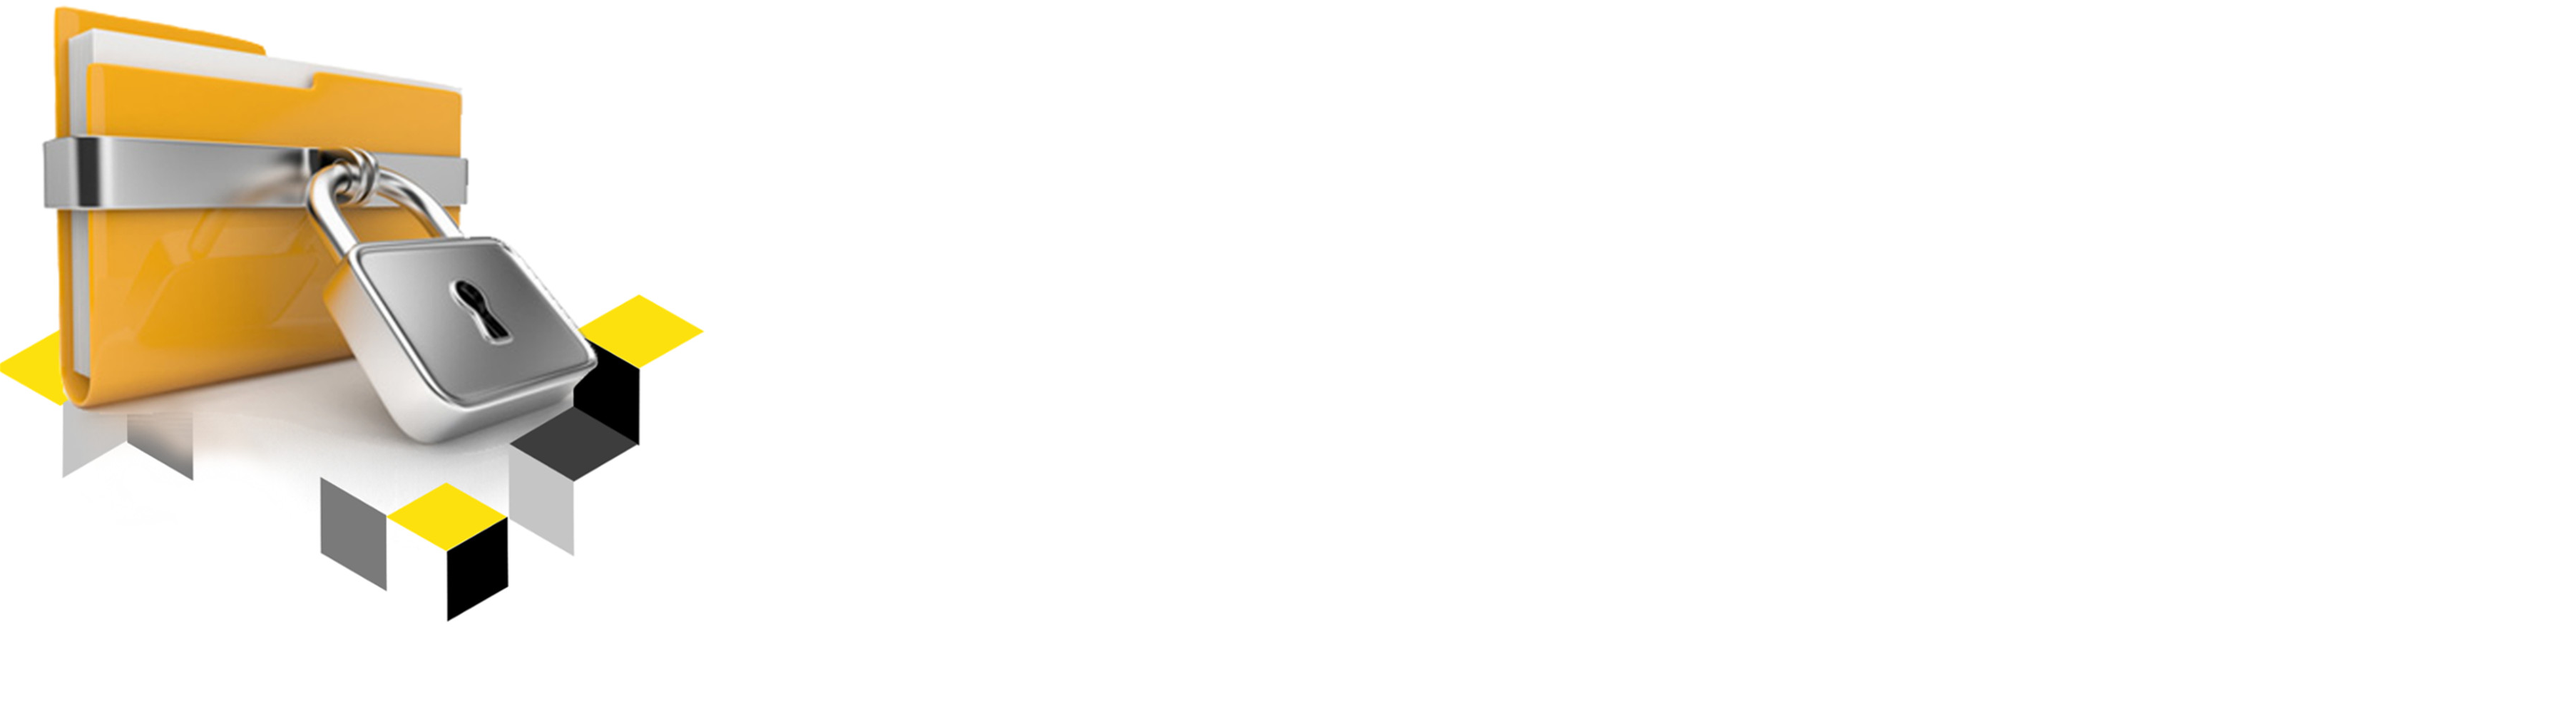
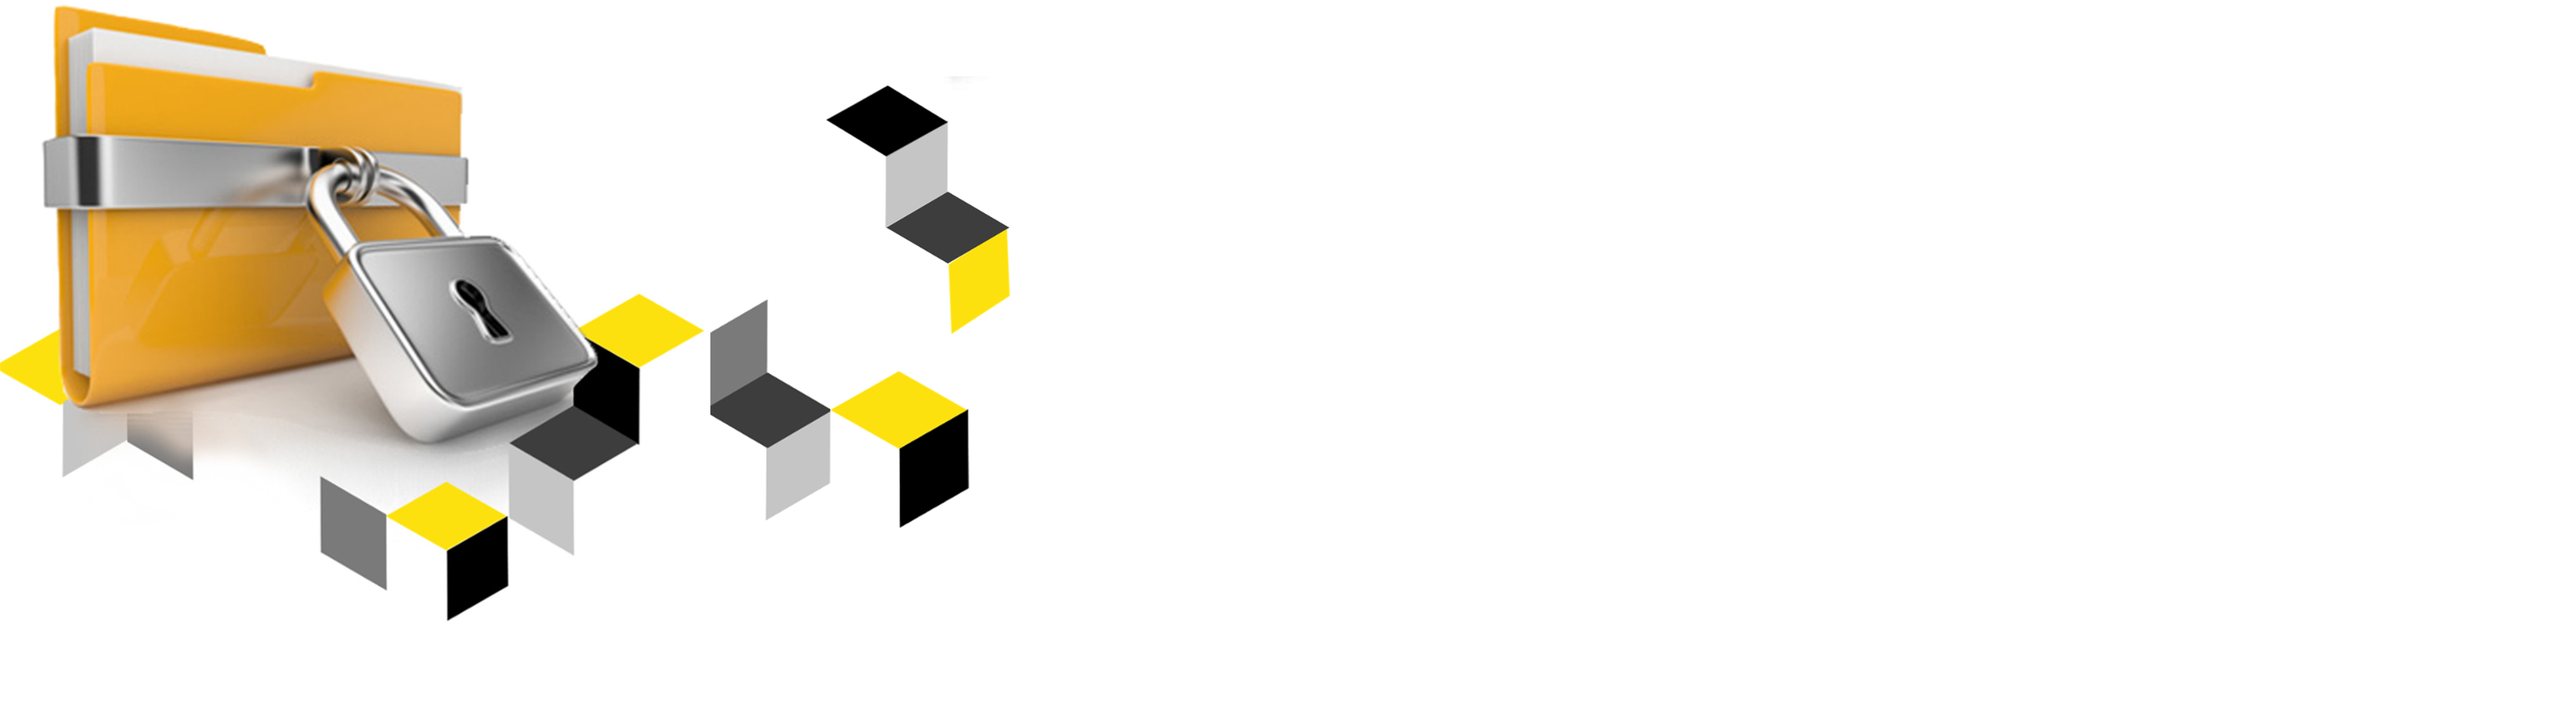
versao 28.5
novo produto
pd dda

diff --git a/WebContent/pdDDA.html b/WebContent/pdDDA.html
@@ -276,10 +276,10 @@
 	<div class="widnr second">
 		<div class="container">
 			<div class="span8 offset2 text-center">
-				<h2>PD BacenJud</h2>
-                <h4>Sistema de Controle das Ordens Judiciais via BACEN</h4>
-				<p>No portfólio de soluções de cadastros e obrigações da PD Case para o mercado bancário temos o BACENJUD. Nossa solução atende ao instrumento de comunicação eletrônica entre o Poder Judiciário e instituições financeiras bancárias, com intermediação, gestão técnica e serviço de suporte a cargo do Banco Central.</p>
-
+				<h2>PD DDA</h2>
+                <h4>Débito Direto Autorizado</h4>
+				<p>O DDA é um projeto idealizado pela FEBRABAN, ao qual todos os bancos participantes do SILOC/SIPROC são obrigados a aderir.</p>
+                <p>E, a solução PD DDA possibilita total aderência ao serviço prestado pelo CIP</p>
 
 			</div>
 			<!-- 
@@ -301,67 +301,57 @@
 		</div>
 	</div>
 
- <div class="widnr valueprop right"
-		style="background-image: url(./images/judge.png);">
-		<div class="container">
-			<div class="row-fluid flex-row">
-				<div class="span4 text-hero offset8">
-					<h2>O Bacen Jud 2.0</h2>
-					<p>O Bacen Jud 2.0 é um avanço na comunicação entre o Judiciário e as instituições financeiras, conferindo economia, segurança, controle e agilidade no processamento das ordens judiciais.</p>
-                    <p>Por meio dele, os magistrados protocolizam ordens judiciais de requisição de informações, bloqueio, desbloqueio e transferência de valores bloqueados, que serão transmitidas às instituições bancárias para cumprimento e resposta.</p>
-				</div>
-			</div>
-		</div>
-	</div>
-	
 	<div class="widnr valueprop left"
-		style="background-image: url(./images/gerenciamento.png);">
+		style="background-image: url(./images/dda2.jpg);">
 		<div class="container">
 			<div class="row-fluid flex-row">
 				<div class="span4 text-hero ">
-					<h2>Economia</h2>
-					<p>Economia, porque diminui o custo de processamento das ordens e solicitações judiciais tanto no âmbito do Judiciário, quanto no Banco Central e nas instituições financeiras, e mais a redução do prejuízo das partes com a manutenção por longo tempo dos recursos parados.</p>
-				</div>
-			</div>
-		</div>
-	</div>
-    <div class="widnr valueprop right"
-		style="background-image: url(./images/garobs.png);">
-		<div class="container">
-			<div class="row-fluid flex-row">
-				<div class="span4 text-hero offset8">
-					<h2>Segurança</h2>
-					<p>Segurança, por dois motivos: </p>
-                    <p>•	Usa recursos modernos de segurança e criptografia nas transmissões; </p>
-                    <p>•	Elimina riscos de falhas provenientes do processamento humano, conferindo campos de digitação e reduzindo os níveis de acesso à informação.
-                    </p>
-				</div>
-			</div>
-		</div>
-	</div>
-    <div class="widnr valueprop left"
-		style="background-image: url(./images/gar2.png);">
-		<div class="container">
-			<div class="row-fluid flex-row">
-				<div class="span4 text-hero ">
-					<h2>Controle </h2>
-					<p>Controle, porque permite ao Judiciário o acompanhamento das respostas às ordens e solicitações emitidas.</p>
+					<h2>Débito Direto Autorizado</h2>
+					<p>Permite que os bancos associados disponibilizem e consultem eletronicamente os bloquetos de cobrança, sendo estes originários de seus respectivos credores e destinados aos clientes que tenham se cadastrado como "Sacado Eletrônico" (devedor) em qualquer uma das instituições integrantes deste serviço.</p>
+                    <p>Seu objetivo central é reduzir o volume de documentos físicos que circulam pelo serviço de cobrança bancária, de forma a diminuir significativamente os custos com impressão e postagem, bem c omo o número de fraudes originadas pela adulteração das informações contidas nos bloquetos.</p>
 				</div>
 			</div>
 		</div>
 	</div>
 	<div class="widnr valueprop right"
-		style="background-image: url(./images/motivacao.jpg); padding-bottom:0px;">
+		style="background-image: url(./images/dda1.jpg);">
 		<div class="container">
 			<div class="row-fluid flex-row">
 				<div class="span4 text-hero offset8">
-					<h2>Agilidade</h2>
-					<p>Agilidade, porque as ordens são transmitidas eletronicamente e têm suas respostas visíveis para o juízo emissor na manhã do segundo dia útil após seu recebimento pelas instituições.</p>
+					<h2>Integração Saldo Eletrônico</h2>
+					<p>A solução PD DDA, por meio de funcionalidades on-line e de rotinas de integração com os sistemas das instituições, possibilita total aderência ao serviço prestado pela CIP, disponibilizando funcionalidades para gerenciamento, movimentação e atualização dos títulos de cobrança bancária e sacados eletrônicos.</p>
 				</div>
 			</div>
 		</div>
 	</div>
-
+	<div class="widnr valueprop left"
+		style="background-image: url(./images/dda3.jpg);">
+		<div class="container">
+			<div class="row-fluid flex-row">
+				<div class="span4 text-hero ">
+					<h2>Integração Saldo Eletrônico</h2>
+                    <p>O Sistema de Cobrança </p>
+					<p>A solução proporciona maior segurança, agilidade e praticidade tanto para as instituições financeiras quanto aos clientes usuários do serviço de cobrança bancária, sejam eles cedentes ou sacados.</p>
+				</div>
+			</div>
+		</div>
+	</div>
+    <div class="widnr valueprop right"
+		style="background-image: url(./images/dd4.jpg);">
+		<div class="container">
+			<div class="row-fluid flex-row">
+				<div class="span4 text-hero offset8">
+					<h2>Benefícios</h2>
+					<p>•	Maior Segurança no processo de pagamentos de bloquetos.<br />
+                    •	Alternativa de oferta de crédito para pagamento de bloquetos<br />
+                    •	Redução de filas de agências<br />
+                    •	Direcionamento de pagamentos para canais de auto atendimento<br />
+                    •	Maior agilidade no processo de negociação de pagamento</p>
+				</div>
+			</div>
+		</div>
+	</div>
+    
 
 </article>
 

diff --git a/WebContent/produtos.html b/WebContent/produtos.html
@@ -165,6 +165,7 @@
 									<li><a href="pdCTA.html">PD CTA - Centralizador de Transferencia de Arquivos</a></li>
 									<li><a href="pdPositivo.html">PD Positivo - Cadastro Positivo</a></li>
                                     <li><a href="pdBacenJud.html">PD BacenJud - Controle das Ordens Judiciais via BACEN</a></li>
+                                    <li><a href="pdDDA.html">PD DDA - Débito Direto Autorizado</a></li>
 								</ul>
 							</li>
 						</ul>
@@ -283,8 +284,9 @@
                         <a href="./pdPositivo.html"><button class="prodserv button2" onclick="location.href = './pdPositivo.html';">PD Positivo<br />Cadastro Positivo</button></a>
                         <a href="./pdBank.html"><button class="prodserv button2" onclick="location.href = './pdBank.html';">PD Bank<br />"CORE BUSINESS"</button></a>
                         <a href="./pdGAR.html"><button class="prodserv button2" onclick="location.href = './pdGAR.html';">PD GAR<br />Gestão de Ativos Reutilizáveis</button></a>
-                        <a href="./pdCTA.html"><button class="prodserv button2" onclick="location.href = './pdCTA.html';" >PD CTA<br />Centralizador de Transferência de Arquivos</button></a>
+                        <a href="./pdDDA.html"><button class="prodserv button2" onclick="location.href = './pdDDA.html';">PD DDA<br />Sistema de Débito Direto Autorizado</button></a>
                         <a href="./pdSRC.html"><button class="prodserv button2" onclick="location.href = './pdSRC.html';">PD SRC<br />Sistema de Recuperação de Crédito</button></a>
+                        <a href="./pdCTA.html"><button class="prodserv button2" onclick="location.href = './pdCTA.html';" >PD CTA<br />Centralizador de Transferência de Arquivos</button></a>
                         <a href="./pdBacenJud.html"><button class="prodserv button2" onclick="location.href = './pdBacenJud.html';">PD BacenJud<br />Sistema de Controle de Ordens Judiciais via BACEN</button></a>
                         <br /><br /><br /><br />
                     </div>

diff --git a/WebContent/portalCredito.html b/WebContent/portalCredito.html
@@ -129,6 +129,7 @@
                                 <li><a href="pdCTA.html">PD CTA - Centralizador de Transferencia de Arquivos</a></li>
                                 <li><a href="pdPositivo.html">PD Positivo - Cadastro Positivo</a></li>
                                 <li><a href="pdBacenJud.html">PD BacenJud - Controle das Ordens Judiciais via BACEN</a></li>
+                                <li><a href="pdDDA.html">PD DDA - Débito Direto Autorizado</a></li>
                             </ul>
                         </li>
                     </ul>

diff --git a/WebContent/clientes.html b/WebContent/clientes.html
@@ -184,6 +184,7 @@
 									<li><a href="pdCTA.html">PD CTA - Centralizador de Transferencia de Arquivos</a></li>
 									<li><a href="pdPositivo.html">PD Positivo - Cadastro Positivo</a></li>
                                     <li><a href="pdBacenJud.html">PD BacenJud - Controle das Ordens Judiciais via BACEN</a></li>
+                                    <li><a href="pdDDA.html">PD DDA - Débito Direto Autorizado</a></li>
 								</ul>
 							</li>
 						</ul>

diff --git a/WebContent/consultoria.html b/WebContent/consultoria.html
@@ -181,6 +181,7 @@
 									<li><a href="pdCTA.html">PD CTA - Centralizador de Transferencia de Arquivos</a></li>
 									<li><a href="pdPositivo.html">PD Positivo - Cadastro Positivo</a></li>
                                     <li><a href="pdBacenJud.html">PD BacenJud - Controle das Ordens Judiciais via BACEN</a></li>
+                                    <li><a href="pdDDA.html">PD DDA - Débito Direto Autorizado</a></li>
 								</ul>
 							</li>
 						</ul>

diff --git a/WebContent/contato.html b/WebContent/contato.html
@@ -189,6 +189,7 @@
 									<li><a href="pdCTA.html">PD CTA - Centralizador de Transferencia de Arquivos</a></li>
 									<li><a href="pdPositivo.html">PD Positivo - Cadastro Positivo</a></li>
                                     <li><a href="pdBacenJud.html">PD BacenJud - Controle das Ordens Judiciais via BACEN</a></li>
+                                    <li><a href="pdDDA.html">PD DDA - Débito Direto Autorizado</a></li>
 								</ul>
 							</li>
 						</ul>

diff --git a/WebContent/empresa.html b/WebContent/empresa.html
@@ -185,6 +185,7 @@
 									<li><a href="pdCTA.html">PD CTA - Centralizador de Transferencia de Arquivos</a></li>
 									<li><a href="pdPositivo.html">PD Positivo - Cadastro Positivo</a></li>
                                     <li><a href="pdBacenJud.html">PD BacenJud - Controle das Ordens Judiciais via BACEN</a></li>
+                                    <li><a href="pdDDA.html">PD DDA - Débito Direto Autorizado</a></li>
 								</ul>
 							</li>
 						</ul>

diff --git a/WebContent/fabricaSoftware.html b/WebContent/fabricaSoftware.html
@@ -181,6 +181,7 @@
 									<li><a href="pdCTA.html">PD CTA - Centralizador de Transferencia de Arquivos</a></li>
 									<li><a href="pdPositivo.html">PD Positivo - Cadastro Positivo</a></li>
                                     <li><a href="pdBacenJud.html">PD BacenJud - Controle das Ordens Judiciais via BACEN</a></li>
+                                    <li><a href="pdDDA.html">PD DDA - Débito Direto Autorizado</a></li>
 								</ul>
 							</li>
 						</ul>

diff --git a/WebContent/gestaoProcessos.html b/WebContent/gestaoProcessos.html
@@ -180,6 +180,7 @@
 									<li><a href="pdCTA.html">PD CTA - Centralizador de Transferencia de Arquivos</a></li>
 									<li><a href="pdPositivo.html">PD Positivo - Cadastro Positivo</a></li>
                                     <li><a href="pdBacenJud.html">PD BacenJud - Controle das Ordens Judiciais via BACEN</a></li>
+                                    <li><a href="pdDDA.html">PD DDA - Débito Direto Autorizado</a></li>
 								</ul>
 							</li>
 						</ul>

diff --git a/WebContent/index.html b/WebContent/index.html
@@ -236,6 +236,7 @@
 									<li><a href="pdCTA.html">PD CTA - Centralizador de Transferencia de Arquivos</a></li>
 									<li><a href="pdPositivo.html">PD Positivo - Cadastro Positivo</a></li>
                                     <li><a href="pdBacenJud.html">PD BacenJud - Controle das Ordens Judiciais via BACEN</a></li>
+                                    <li><a href="pdDDA.html">PD DDA - Débito Direto Autorizado</a></li>
 								</ul>
 							</li>
 						</ul>

diff --git a/WebContent/mpsBR.html b/WebContent/mpsBR.html
@@ -184,6 +184,7 @@
 									<li><a href="pdCTA.html">PD CTA - Centralizador de Transferencia de Arquivos</a></li>
 									<li><a href="pdPositivo.html">PD Positivo - Cadastro Positivo</a></li>
                                     <li><a href="pdBacenJud.html">PD BacenJud - Controle das Ordens Judiciais via BACEN</a></li>
+                                    <li><a href="pdDDA.html">PD DDA - Débito Direto Autorizado</a></li>
 								</ul>
 							</li>
 						</ul>

diff --git a/WebContent/pdBank.html b/WebContent/pdBank.html
@@ -146,6 +146,7 @@
 									<li><a href="pdCTA.html">PD CTA - Centralizador de Transferencia de Arquivos</a></li>
 									<li><a href="pdPositivo.html">PD Positivo - Cadastro Positivo</a></li>
                                     <li><a href="pdBacenJud.html">PD BacenJud - Controle das Ordens Judiciais via BACEN</a></li>
+                                    <li><a href="pdDDA.html">PD DDA - Débito Direto Autorizado</a></li>
 								</ul>
 							</li>
 						</ul>
